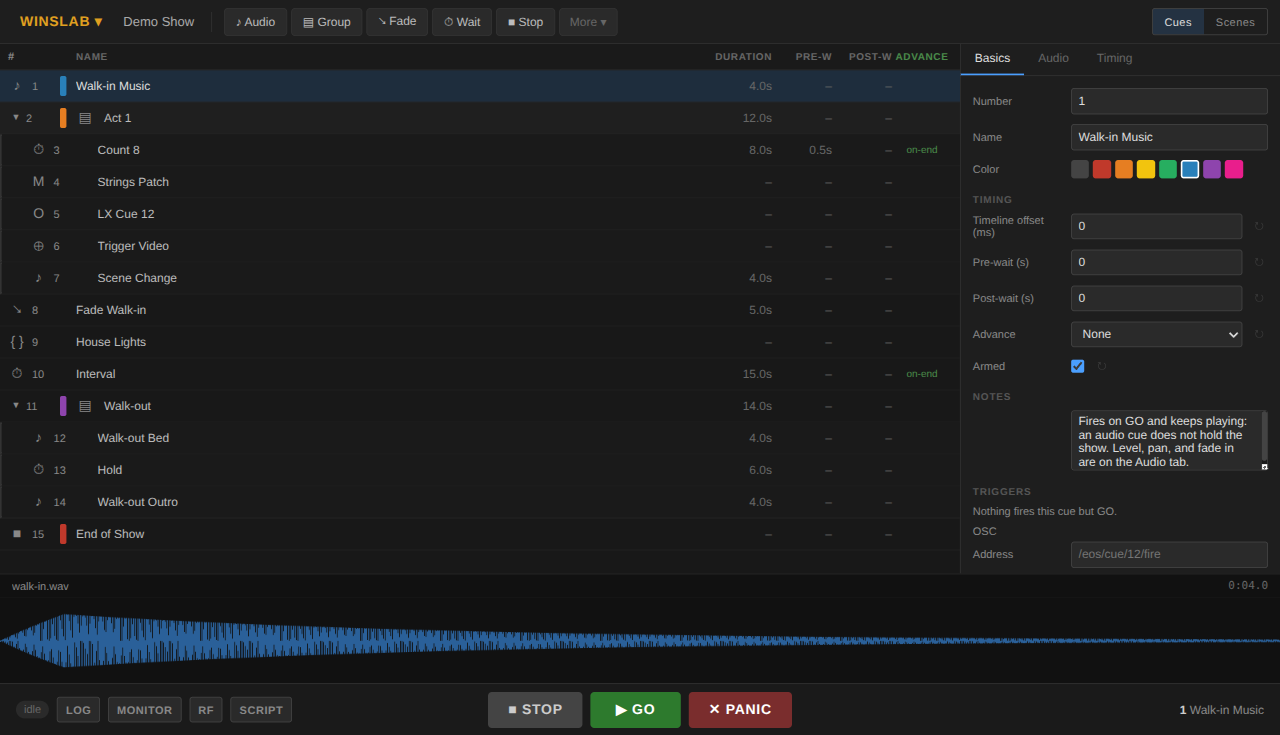
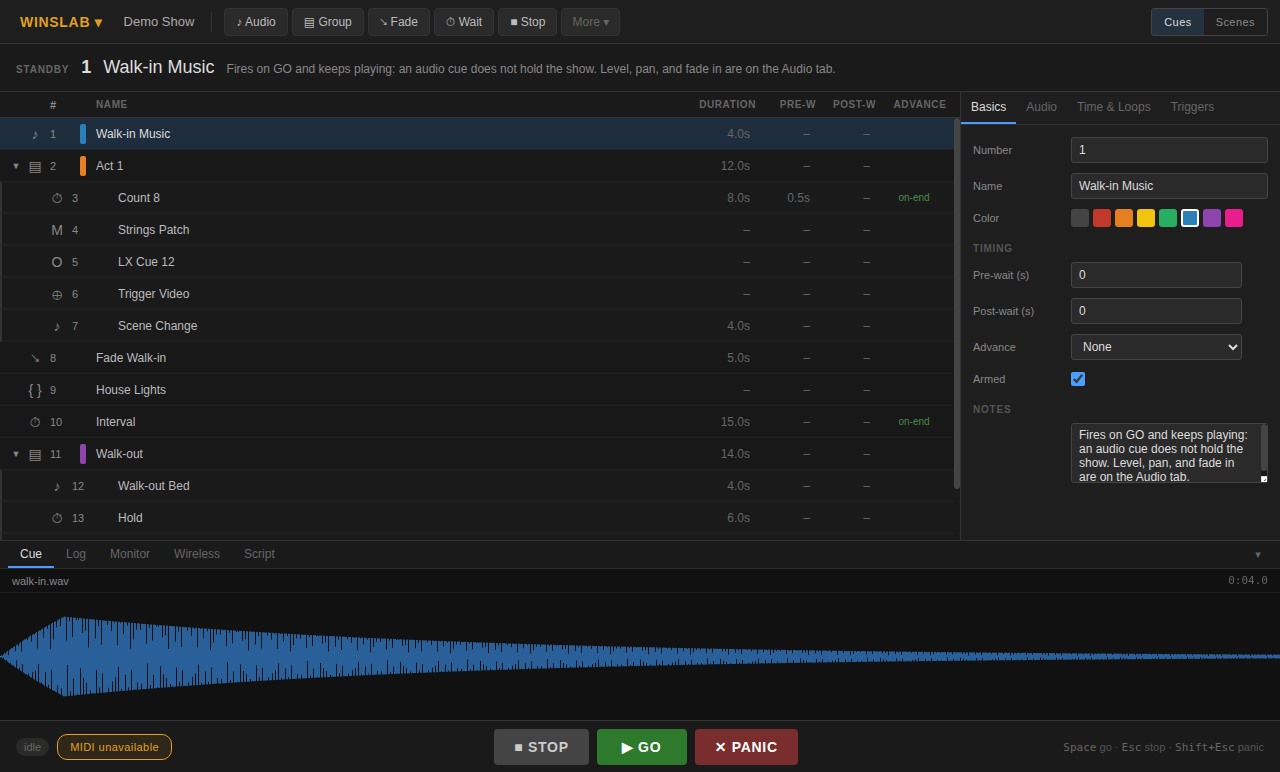
Retell the guide for the dock and Show Settings, and reshoot its figures

diff --git a/website/guide.html b/website/guide.html
@@ -100,10 +100,9 @@
           <li><strong>Toolbar</strong> — the WinsLab menu (New, Open, Save, Save As, Recent, Settings), the workspace name with a dirty dot, and the add-cue buttons.</li>
           <li><strong>Cue list</strong> — the running order. One row per cue, with duration, pre-wait, post-wait, and any auto-advance in the columns on the right.</li>
           <li><strong>Inspector</strong> — settings for the selected cue. Tabs change with the cue type.</li>
-          <li><strong>Waveform / timeline</strong> — the waveform of the selected audio cue, or the timeline editor when a timeline-mode group is selected.</li>
-          <li><strong>Run log</strong> — hidden by default; the LOG button in the transport bar reveals it.</li>
-          <li><strong>Transport bar</strong> — STOP, GO, PANIC, the running indicator, the strip buttons (LOG, MONITOR, RF, SCRIPT) and the selected cue.</li>
-          <li><strong>The strip</strong> — the panels along the bottom share one space and open one at a time: the run log, the show monitor, the wireless panel or the script. Whichever button is lit is the one showing.</li>
+          <li><strong>Waveform / timeline</strong> — what the dock shows for the selected cue: the waveform of an audio cue, or the timeline editor for a timeline-mode group.</li>
+          <li><strong>Dock</strong> — the panels along the bottom share one space and open one at a time: the selected cue, the run log, the show monitor, the wireless panel and the script. The tabs across the top of the dock — Cue, Log, Monitor, Wireless, Script — choose, and the chevron on the right hides it.</li>
+          <li><strong>Transport bar</strong> — STOP, GO, PANIC, the running indicator and the selected cue.</li>
         </ol>
       </section>
 
@@ -164,8 +163,9 @@
       <section id="workspaces" class="panel reveal delay-1">
         <h2>Workspaces</h2>
         <p>
-          A workspace is one show: the cue list plus audio and MIDI settings. Workspaces are saved
-          as <code>.wlab</code> files, which are plain JSON and safe to keep in version control.
+          A workspace is one show: the cue list, the settings, and the show's own setup — the
+          console, the cast and the mic plot. Workspaces are saved as <code>.wlab</code> files,
+          which are plain JSON and safe to keep in version control.
         </p>
         <div class="table-wrap">
           <table>
@@ -356,8 +356,8 @@
           </article>
         </div>
         <p style="margin-top: 12px">
-          The running indicator next to the LOG button counts the cues currently in pre-wait,
-          playing, or post-wait, and reads <em>idle</em> when nothing is running.
+          The running indicator at the left of the transport bar counts the cues currently in
+          pre-wait, playing, or post-wait, and reads <em>idle</em> when nothing is running.
         </p>
         <p>
           These keys are ignored while you are typing in a text field, so editing a cue name will
@@ -708,8 +708,8 @@ console.log(r.stdout.trim())</code></pre>
           still counts as sent.
         </p>
         <p>
-          The <strong>run log</strong> records every firing across the show. Open it with the LOG
-          button in the transport bar.
+          The <strong>run log</strong> records every firing across the show. Open it with the
+          <strong>Log</strong> tab in the dock.
         </p>
         <figure class="figure">
           <a href="./assets/guide/08-run-log.png" target="_blank" rel="noreferrer">
@@ -740,22 +740,22 @@ console.log(r.stdout.trim())</code></pre>
           A cue stack is only part of what is happening in the room. WinsLab also listens: it takes
           OSC and MIDI from the desks, tablets and cue lights around it, watches wireless
           transmitters against the mic plot, and notices when something on the network stops
-          answering. Those are the <strong>show services</strong>, and the MONITOR button opens the
-          panel that shows what they are doing.
+          answering. Those are the <strong>show services</strong>, and the Monitor tab in the dock
+          opens the panel that shows what they are doing.
         </p>
         <figure class="figure">
           <a href="./assets/guide/12-show-monitor.png" target="_blank" rel="noreferrer">
-            <img src="./assets/guide/12-show-monitor.png" alt="The show monitor: a services column reading OSC input running, a devices column, and an event river listing OSC messages with their senders and arguments." />
+            <img src="./assets/guide/12-show-monitor.png" alt="The show monitor: the services that are listening and what each one is doing, with the devices they know about beside them and an alarm above the columns." />
           </a>
-          <figcaption>OSC arriving from a desk, with the services that are listening and the devices they know about beside it.</figcaption>
+          <figcaption>OSC arriving from a desk, with the services that are listening and the devices they know about beside them.</figcaption>
         </figure>
         <h3>The monitor</h3>
         <p>
-          Three columns, left to right. <strong>Services</strong> is what is listening and what it
-          is doing — a service that failed says why, and a restart button sits next to it.
+          Two columns, left to right. <strong>Services</strong> is what is listening and what it is
+          doing — a service that failed says why, and a restart button sits next to it.
           <strong>Devices</strong> is what is on stage or on the network, with the readings each one
-          reports. <strong>Events</strong> is what just arrived, newest last; scrolling up releases
-          the auto-follow so the view stops moving while you read.
+          reports. What arrives rather than what is running goes to the run log, where every message
+          the inputs carry is written with its sender and its arguments.
         </p>
         <p>
           Alarms appear above the columns and are also written to the run log, so an alarm outlives
@@ -801,7 +801,8 @@ console.log(r.stdout.trim())</code></pre>
         <h2>Wireless and the mic plot<span class="pro">Pro</span></h2>
         <p>
           The wireless panel answers the two questions asked most often in a radio-mic show: who is
-          wearing which pack, and which one is about to die. The RF button opens it.
+          wearing which pack, and which one is about to die. The <strong>Wireless</strong> button in
+          the dock opens it.
         </p>
         <figure class="figure">
           <a href="./assets/guide/13-wireless.png" target="_blank" rel="noreferrer">
@@ -840,8 +841,8 @@ console.log(r.stdout.trim())</code></pre>
         <p>
           The field names are the contract: a bridge written against a receiver's own API only has to
           emit them, and any field a channel does not report is simply left out — the panel shows
-          nothing for a reading that was never made rather than a zero. Add sources on the Show tab
-          in Settings, where the service also reports what it is doing.
+          nothing for a reading that was never made rather than a zero. Add sources on the Wireless
+          tab in Settings, where the service also reports what it is doing.
         </p>
         <p>
           <strong>Demo rack</strong> loads a simulated twelve-pack show with a pack in trouble, one
@@ -852,17 +853,19 @@ console.log(r.stdout.trim())</code></pre>
         </p>
         <h3>Entering your plot</h3>
         <p>
-          <strong>Edit plot…</strong> opens the cast and the packs. A performer is a name and a
-          role; a pack is a label, the receiver channel it is patched to, and the performer
-          wearing it. Channels are offered from what the wireless service is already hearing, so
-          a patch is picked rather than typed from memory — but the field stays free text,
-          because a pack that is switched off today is still part of tonight's plot.
+          <strong>Edit plot…</strong> opens Show Settings on its <strong>Mic plot</strong> tab: a
+          pack is a label, the receiver channel it is patched to, and the performer wearing it.
+          Channels are offered from what the wireless service is already hearing, so a patch is
+          picked rather than typed from memory — but the field stays free text, because a pack that
+          is switched off today is still part of tonight's plot. The performers the assignment picks
+          from come from the Cast tab of the same dialog, where a performer is a name, a role, and
+          the strip their mic is patched to.
         </p>
         <figure class="figure">
           <a href="./assets/guide/16-plot.png" target="_blank" rel="noreferrer">
-            <img src="./assets/guide/16-plot.png" alt="The mic plot editor: a cast list of names, roles and notes above a pack list with labels, receiver channels and performer assignments." />
+            <img src="./assets/guide/16-plot.png" alt="Show Settings on the Mic plot tab: twelve packs with their receiver channels and the performer wearing each, and the swap log underneath recording the last change of hands." />
           </a>
-          <figcaption>The cast and the packs, with a pack just handed to a different performer.</figcaption>
+          <figcaption>The plot, with a pack just handed to a different performer and the swap it left behind.</figcaption>
         </figure>
         <p>
           Text fields commit when you leave them, so nothing is rewritten mid-word. Every change
@@ -900,8 +903,8 @@ console.log(r.stdout.trim())</code></pre>
           Alarms are raised on a crossing, not on every poll: a pack that sits at 8% for an hour says
           so once, and only says so again if it recovers and falls again. The defaults are a warning
           at 25% and critical at 10% battery, a warning below -75 dBm, and six seconds of silence
-          before a channel counts as gone. All four are set on the Show tab in Settings, and they
-          live in the workspace with the plot, so a show carries its own idea of what is bad.
+          before a channel counts as gone. All four are set on the Wireless tab in Settings, and
+          they live in the workspace with the plot, so a show carries its own idea of what is bad.
         </p>
         <p>
           The silence window is the one worth thinking about. Six seconds is long enough that a
@@ -958,9 +961,9 @@ console.log(r.stdout.trim())</code></pre>
       <section id="script-panel" class="panel reveal delay-4">
         <h2>The script, and the tablet<span class="pro">Pro</span></h2>
         <p>
-          Most operators keep the script open while they work. The SCRIPT button puts it in the
-          strip: the document, the cue that fires on each line pinned to it, and the line the next
-          GO will fire from marked as the show moves.
+          Most operators keep the script open while they work. The <strong>Script</strong> tab in
+          the dock opens it: the document, the cue that fires on each line pinned to it, and the
+          line the next GO will fire from marked as the show moves.
         </p>
         <figure class="figure">
           <a href="./assets/guide/15-script.png" target="_blank" rel="noreferrer">
@@ -987,7 +990,7 @@ console.log(r.stdout.trim())</code></pre>
           The companion serves a read-only view of the show — the running order, the next cue, what
           is running now, the script with the current line marked, and the recent alarms — to
           anything on the same network with a browser. There is nothing to install: open the address
-          the Show tab reports, with the token on the end of it.
+          the Network tab reports, with the token on the end of it.
         </p>
         <p>
           It is off until it is switched on, and it refuses every request that does not carry the
@@ -1008,24 +1011,30 @@ console.log(r.stdout.trim())</code></pre>
         <p>
           The <strong>Scenes</strong> switch at the top right opens the view it all happens in: the
           same show as a grid, filling the window in place of the cue list, with the transport bar —
-          GO, STOP, PANIC — exactly where it was. It is where the show is <em>run</em> and the only
-          place any of it is <em>edited</em>. There is nothing to open and no dialog to confirm,
-          because a second way to edit the same thing is a second way to get it wrong.
+          GO, STOP, PANIC — exactly where it was. It is where the show is <em>run</em>, and where
+          the scenes themselves are edited. Everything the grid is built from — the console, the
+          cast, the mic plot — is set up once in <strong>Show Settings</strong>, and the grid
+          carries no field for it, because a second way to edit the same thing is a second way to
+          get it wrong.
         </p>
         <figure class="figure">
           <a href="./assets/guide/18-scenes.png" target="_blank" rel="noreferrer">
-            <img src="./assets/guide/18-scenes.png" alt="The scenes view: scenes as columns with their mic counts and recall buttons, mics as rows with their performers and desk groups, filled cells for the mics open in each scene, and the recalled scene's column tinted." />
+            <img src="./assets/guide/18-scenes.png" alt="The scenes view in Edit mode: the all-closed column and two named scenes as columns with recall buttons, an ensemble row and twelve performer rows down the side, green cells for the mics open in each scene, and the recalled scene's column tinted." />
           </a>
-          <figcaption>Two scenes across, twelve mics down: the recalled scene's column lit with the people it has open, and the header naming where the desk is and what is coming.</figcaption>
+          <figcaption>Two scenes across, twelve mics down: the recalled scene's column lit with the people it has open, the ensemble they were grouped into above them, and the header naming where the desk is and what is coming.</figcaption>
         </figure>
         <h3>Reading it</h3>
         <p>
           A filled cell is a mic that is open in that scene. The column of the scene the desk is set
           to is tinted and the rows it opens are brightened, which together answer the question asked
-          most often in a radio-mic show: <em>who is on right now?</em> Each column is a name and two
-          presses: <strong>→</strong> sends that scene to the desk, and the ✕ beside it removes the
-          scene. How many mics a scene opens is the block of colour under it, so nothing spells it
-          out.
+          most often in a radio-mic show: <em>who is on right now?</em> The first column is
+          <strong>All closed</strong> — every mic the show drives, shut, which is what the desk
+          wants between numbers — and it is a place the desk can be rather than a scene anybody
+          builds. Each column after it is a name and two presses: <strong>→</strong> sends that
+          scene to the desk, and the ✕ beside it removes the scene; how many mics a scene opens is
+          the block of colour under it, so nothing spells it out. An <strong>ensemble</strong> row
+          sits above the mics: one named group, and a cell per scene saying whether that scene
+          applies it.
         </p>
         <h3>Following the show</h3>
         <p>
@@ -1045,42 +1054,64 @@ console.log(r.stdout.trim())</code></pre>
         <h3>Editing it</h3>
         <p>
           Click a cell to open or close that mic in that scene. <strong>Add scene</strong> appends a
-          column and the name is edited in the column header, where it is read. The rows are the
-          people wearing the mics; the pack's label and the desk group it feeds are set once at
-          setup, in the mic plot editor with the rest of the plot, so the grid carries no field for
-          them.
+          column and the name is edited in the column header, where it is read.
+          <strong>+ Ensemble</strong> takes the mics that are open in the scene the desk is on and
+          keeps them as a named group, applied to that scene from then on — the chorus that walks on
+          together in the next number is one press rather than a row of them, and a member the scene
+          closes anyway leaves the group reading as partly open rather than as a tick that lies. The
+          rows are the performers; the strip each mic is patched to, and the DCA it opens, are set
+          up once in Show Settings, so the grid carries no field for them.
         </p>
         <p>
           A deleted scene is not gone: <kbd>Ctrl/Cmd</kbd> + <kbd>Z</kbd> puts it back where it was,
-          with the mics it opens. The same undo covers the cues, the scenes and the mic plot, so an
-          edit made in either view is one press from being back.
+          with the mics it opens. The same undo covers the cues, the scenes and the whole of the
+          show's setup — the console, the cast and the mic plot — so an edit made in either view is
+          one press from being back.
         </p>
         <figure class="figure">
-          <a href="./assets/guide/19-scenes-groups.png" target="_blank" rel="noreferrer">
-            <img src="./assets/guide/19-scenes-groups.png" alt="The same view with the desk groups drawer open below the grid: a group with its label, OSC delivery and the two messages it sends, and what it is carrying." />
+          <a href="./assets/guide/19-show-settings.png" target="_blank" rel="noreferrer">
+            <img src="./assets/guide/19-show-settings.png" alt="Show Settings on the Channels tab: the desk reading OSC to 127.0.0.1:8000 at the address pattern /dca/{n}/on, twelve channel strips each showing the DCA it rides, and the DCA rows below reading back which strips each one is carrying." />
           </a>
-          <figcaption>The same view, with the desk groups open: what each one carries, and the messages it opens and closes with.</figcaption>
+          <figcaption>Show Settings: the desk, the strips on the console, and the DCAs they ride. Two faders are carrying the first four strips.</figcaption>
         </figure>
-        <h3>The desk groups</h3>
+        <h3>Where it is set up</h3>
         <p>
-          <strong>Desk groups (N)</strong> opens a drawer along the bottom: each group's label, how
-          the desk is told to open and close it, the exact messages it will send, what is feeding it
-          and whether it is open now. MIDI is the common case — one note per group, open on note-on
-          and closed on note-off — and OSC covers desks that prefer it, with the open and the close
-          value on one address.
+          <strong>Show Settings</strong>, at the foot of the WinsLab menu, is the show's own setup —
+          kept with the workspace rather than with the machine, in three tabs: Channels, Cast and
+          Mic plot. Channels holds the desk: one connection for the whole show, OSC or MIDI, or no
+          desk at all. OSC is one host, one port and an address pattern with <code>{n}</code> where
+          a DCA's number goes — <code>/dca/{n}/on</code> unless the desk wants something else — and
+          the line under it reads the pattern back as the first and last message the show will send,
+          because a pattern and a port are easier to check as addresses than as a template. A MIDI
+          desk is a port and a channel, and each DCA is a note, numbered from one the same way.
+        </p>
+        <p>
+          Below it are the strips on the console and the DCAs they ride. A new show opens with
+          twelve of each, strip n on DCA n — a wireless show is one mic per fader, so this is the
+          arrangement it wants and not a guess — which leaves the tab holding the exceptions. A
+          strip's DCA is a select in its row, so a chorus can share one fader; a DCA can be given an
+          address or a note of its own where the desk numbers them differently, typed into the field
+          that shows the derived one as its placeholder; and a DCA row reads back which strips it
+          is carrying.
+        </p>
+        <p>
+          Cast is who is in the show: a performer, their role, and the strip their mic is patched
+          to. Ensembles are named groups of them — the chorus, the band — and they are what a scene
+          applies: applying one opens every member it holds, one press on the grid instead of a row
+          of them.
         </p>
         <h3>What a recall sends</h3>
         <p>
-          Only what changed. A group whose mics are all closed is closed, a group with any one of its
-          mics open is opened, and a group already in the right state is not mentioned at all — a
-          recall should be three messages, not a sweep of every fader. Groups that no mic is assigned
+          Only what changed. A DCA whose mics are all closed is closed, a DCA with any one of them
+          open is opened, and a DCA already in the right state is not mentioned at all — a
+          recall should be three messages, not a sweep of every fader. DCAs that no mic is routed
           to are left alone entirely, because the desk may well be doing something else with them.
         </p>
         <p>
           Editing never moves the desk. When the scene on stage has drifted from where the desk was
-          left, the view offers <strong>Apply to desk (N)</strong> with the number of groups behind,
-          and waits. <strong>Mics off</strong> closes everything the plot drives: the panic button for
-          mics rather than for sound.
+          left, the view offers <strong>Apply to desk (N)</strong> with the number of DCAs behind,
+          and waits. The all-closed column is the other half of the same idea: it is the press that
+          shuts everything the show drives, which is what the desk wants between numbers.
         </p>
         <h3>Following the show</h3>
         <p>
@@ -1090,19 +1121,21 @@ console.log(r.stdout.trim())</code></pre>
           pointed at a scene refuses rather than being read as “close everything”, and the run log
           carries the recall under the cue's own label, so the log reads as one story.
         </p>
-        <h3>Locking it</h3>
+        <h3>Edit and Done</h3>
         <p>
-          <strong>Lock</strong> is for curtain up. While it is on, recalling and applying stay live —
-          that is the point of the view — and every way of changing the show closes: the cells cannot
-          be moved, scenes cannot be added, renamed or removed, and the groups cannot be edited. A
-          stray click during a number cannot change who is open.
+          The view always opens to run the show: recall, the all-closed column and Apply to desk
+          stay live, and nothing else can be changed by a stray click. <strong>Edit</strong> is the
+          deliberate press that gives the grid and the names back — cells, scene names, Add scene
+          and + Ensemble — and <strong>Done</strong> hands the view back to the show with the line
+          under the header going away with it. A stray click during a number cannot change who is
+          open.
         </p>
         <div class="note">
-          The lock is saved with the workspace, so a show that was locked when the app last closed
-          comes back locked — including after a crash and recovery, which is exactly when you do not
-          want to be one click away from editing the plot. The desk's own state is different: it
-          belongs to the session, and a recall only remembers what the desk accepted, so a message
-          that could not be delivered is reported and tried again next time.
+          Which mode it was left in is not saved with the workspace: the file holds the scenes, and
+          the view reopens ready to run them — including after a crash and recovery, which is
+          exactly when you do not want to be one click away from editing the plot. The desk's own
+          state is different: it belongs to the session, and a recall only remembers what the desk
+          accepted, so a message that could not be delivered is reported and tried again next time.
         </div>
       </section>
 
@@ -1121,21 +1154,24 @@ console.log(r.stdout.trim())</code></pre>
             </thead>
             <tbody>
               <tr><td>Audio</td><td>Output device</td><td>Routes all playback to the chosen system output.</td></tr>
-              <tr><td>Audio</td><td>Sample rate, Base latency</td><td>Read-only readouts of the running audio engine: the sample rate in Hz and the base latency in ms. They report the live AudioContext and cannot be changed.</td></tr>
+              <tr><td>Audio</td><td>Sample rate, Buffer, Channels</td><td>What the audio engine is asked for. Each starts on the device's own answer — its rate, the engine's buffer, every channel it has — and a value picked here is remembered with the workspace.</td></tr>
+              <tr><td>Audio</td><td>Exclusive</td><td>Take the device for WinsLab alone, locking system sounds and conferencing apps out of it; a driver that refuses says why underneath.</td></tr>
+              <tr><td>Audio</td><td>Engine</td><td>Read-only readouts of the running audio engine: the backend, what it is running at, the device in use, the latency and where that figure came from, the voices and files playing, the memory it holds, and the underruns it has seen. They report the live engine and cannot be typed into.</td></tr>
               <tr><td>MIDI</td><td>Default output</td><td>Used by MIDI cues that do not name a port of their own; a cue with its own port overrides it.</td></tr>
-              <tr><td>Show</td><td>OSC input</td><td>The port WinsLab listens on for OSC, and whether it listens at all. 53000 matches the convention QLab uses, so one patch sheet covers both.</td></tr>
-              <tr><td>Show</td><td>MIDI input</td><td>Which input ports are opened. With none selected every available input is opened, and a port that appears later is opened when it arrives.</td></tr>
-              <tr><td>Show</td><td>Wireless telemetry</td><td>The sources the wireless panel reads, one row per source: a name, HTTP or file, and the URL or path. Each section also reports what its service is doing, so a change is confirmed on the screen that made it.</td></tr>
-              <tr><td>Show</td><td>Network presence</td><td>Whether to browse the network, which mDNS service types to browse, and how long a device may stay quiet before it counts as gone.</td></tr>
-              <tr><td>Show</td><td>Tablet companion</td><td>Whether to serve the show on the network, on which port, and with which token. The address to open on the tablet is reported underneath once the service is running.</td></tr>
+              <tr><td>Network</td><td>OSC input</td><td>The port WinsLab listens on for OSC, and whether it listens at all. 53000 matches the convention QLab uses, so one patch sheet covers both.</td></tr>
+              <tr><td>MIDI</td><td>MIDI input</td><td>Which input ports are opened. With none selected every available input is opened, and a port that appears later is opened when it arrives.</td></tr>
+              <tr><td>Wireless</td><td>Telemetry sources</td><td>The sources the wireless panel reads, one row per source: a name, HTTP or file, and the URL or path — and the battery, RF and silence thresholds below them that the alarms are raised on. Each section also reports what its service is doing, so a change is confirmed on the screen that made it.</td></tr>
+              <tr><td>Network</td><td>Network presence</td><td>Whether to browse the network, which mDNS service types to browse, and how long a device may stay quiet before it counts as gone.</td></tr>
+              <tr><td>Network</td><td>Tablet companion</td><td>Whether to serve the show on the network, on which port, and with which token. The address to open on the tablet is reported underneath once the service is running.</td></tr>
               <tr><td>License</td><td>License key</td><td>This machine's WinsLab Pro key: what it is licensed to, when it expires, Activate and Deactivate. See <a href="#pro">Free and Pro</a> above.</td></tr>
             </tbody>
           </table>
         </div>
         <p>
           Settings belong to the workspace, so they travel with the show, and changing them marks it
-          as unsaved. The Show tab's settings are the ones the Pro services read: without a license
-          they are kept with the show exactly as they are, and the services do not start.
+          as unsaved. The Network and Wireless tabs' settings are the ones the Pro services read:
+          without a license they are kept with the show exactly as they are, and the services do
+          not start.
         </p>
       </section>
 
@@ -1171,9 +1207,9 @@ console.log(r.stdout.trim())</code></pre>
           text field the field's own undo applies instead. Duplicate
           (<kbd>Ctrl/Cmd</kbd> + <kbd>D</kbd>) and delete
           (<kbd>Ctrl/Cmd</kbd> + <kbd>Backspace</kbd> or <kbd>Delete</kbd>) still need the cue list
-          focused. The history is one stack for the three things an edit destroys — the cue stack,
-          the scenes with their desk groups, and the mic plot — so an undo is never half a change,
-          and it keeps the last 50 edits.
+          focused. The history is one stack for everything an edit destroys — the cue stack, the
+          scenes, and the show's setup, the console, the cast and the mic plot — so an undo is
+          never half a change, and it keeps the last 50 edits.
         </div>
       </section>
 
@@ -1268,17 +1304,17 @@ console.log(r.stdout.trim())</code></pre>
           <article class="card">
             <h3>The wireless panel shows no readings</h3>
             <p>
-              The plot is there but no source is reporting. The Show tab in Settings reports what the
-              wireless service is doing, including why a source failed. A source has to return JSON
-              with a <code>channels</code> array — the shape is in
+              The plot is there but no source is reporting. The Wireless tab in Settings reports
+              what the wireless service is doing, including why a source failed. A source has to
+              return JSON with a <code>channels</code> array — the shape is in
               <a href="#wireless">Wireless and the mic plot</a>.
             </p>
           </article>
           <article class="card">
             <h3>Where are the error messages?</h3>
             <p>
-              In the run log (LOG button). Failures, HTTP statuses, and script output all land
-              there. See <a href="#results">Reading results</a>.
+              In the run log (the Log tab of the dock). Failures, HTTP statuses, and script output
+              all land there. See <a href="#results">Reading results</a>.
             </p>
           </article>
         </div>
@@ -1323,7 +1359,7 @@ console.log(r.stdout.trim())</code></pre>
             <li><kbd>Space</kbd> fires the highlighted cue.</li>
             <li>The highlight moves to whatever GO will fire next.</li>
             <li><kbd>Escape</kbd> stops everything; <kbd>Shift</kbd> + <kbd>Escape</kbd> stops with a fade.</li>
-            <li>If something looks wrong, open the LOG and read the red lines.</li>
+            <li>If something looks wrong, open the Log tab and read the red lines.</li>
           </ul>
         </div>
       </section>
